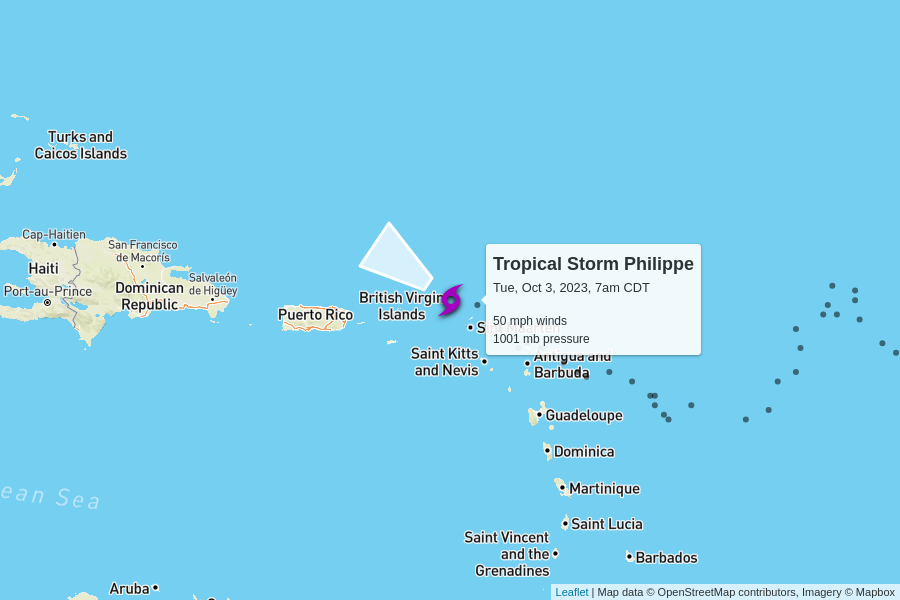
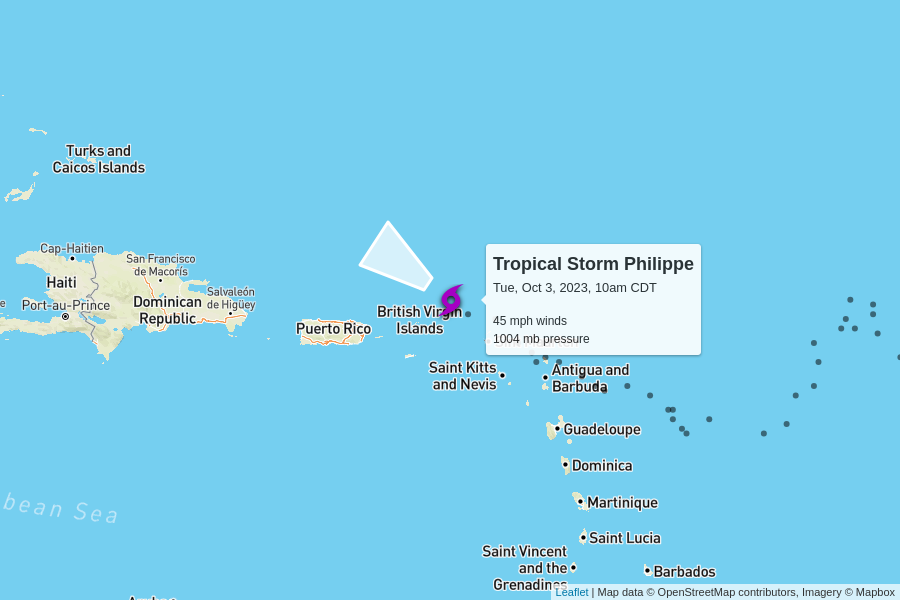
automatic update

diff --git a/docs/index.html b/docs/index.html
@@ -102,7 +102,7 @@
         <td colspan="6" class="storm category-0" >
           <h2>
             Tropical Storm Philippe
-            <p class="updated">last updated <span data-time>2023-10-03T12:00:00.000Z</span></p>
+            <p class="updated">last updated <span data-time>2023-10-03T15:00:00.000Z</span></p>
           </h2>
         </td>
       </tr>
@@ -117,8 +117,8 @@
       </tr>
       <tr>
         <td class="spacer"></td>
-        <td>50 mph<br>0 mph since last update</td>
-        <td>1001 mb<br>0 mb since last update</td>
+        <td>45 mph<br>-5 mph since last update</td>
+        <td>1004 mb<br>+3 mb since last update</td>
         <td>
           10 mph to the northwest
           <br/>
